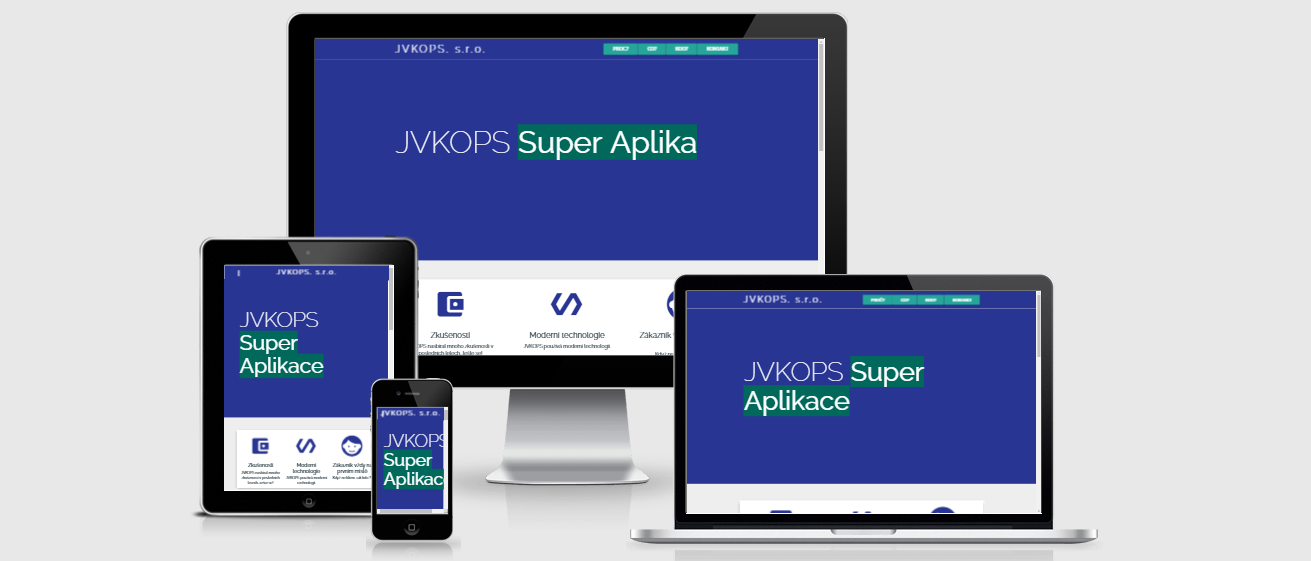
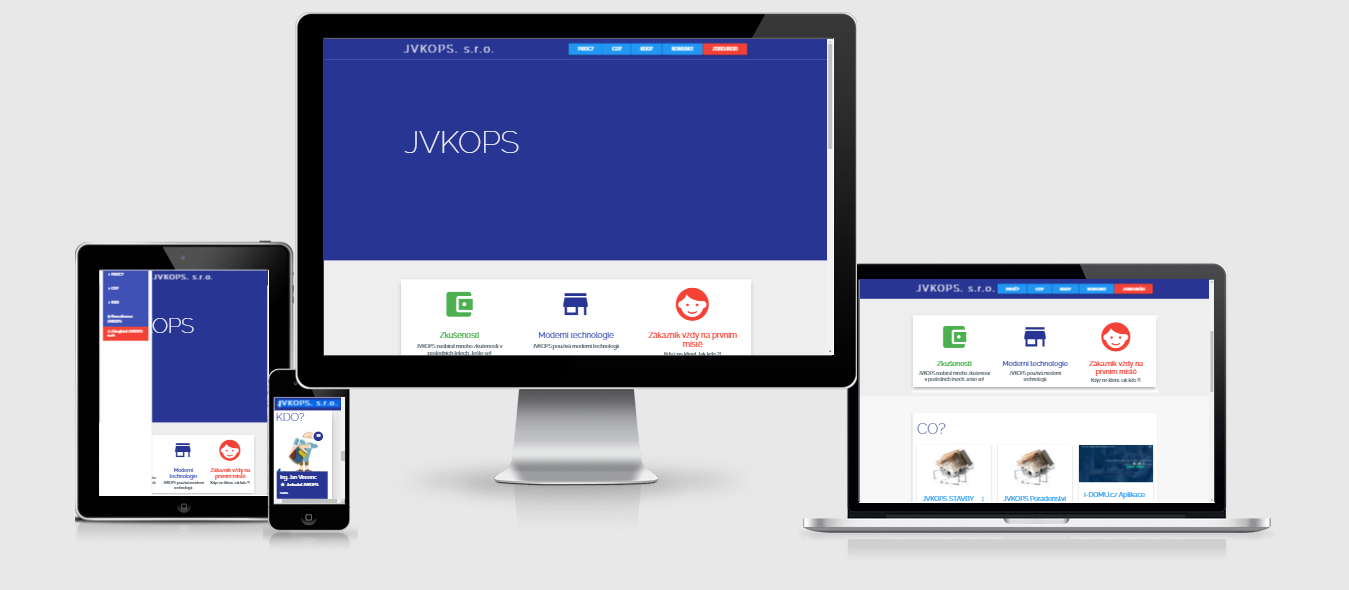
edited styles and screenshots

diff --git a/index.html b/index.html
@@ -1199,24 +1199,24 @@ body {
     <nav id="nav_f" class="default_color" role="navigation">
         <div class="container">
             <div class="nav-wrapper">
-            <a href="http://www.jvkops.cz" id="logo-container" class="brand-logo">#  JVKOPS, s.r.o.</a>
+            <a href="http://www.jvkops.cz" id="logo-container" class="brand-logo"> JVKOPS, s.r.o.</a>
                 <ul class="right hide-on-med-and-down">
-                    <li><a href="#intro" onclick="Materialize.toast('Z jakého důvodu', 5000)" class="btn">Proč?</a></li>
-					<li><a href="#work"onclick="Materialize.toast('Jakou práci', 5000)" class="btn">Co?</a></li>
-                    <li><a href="#team"onclick="Materialize.toast('Lidi, ne?', 5000)" class="btn">Kdo?</a></li>
-                    <li><a href="#contact"onclick="Materialize.toast('Napište nám', 5000)" class="btn">Kontakt</a></li>
-                 <li><a href="https://github.com/Adam-Michal-Prague/JVKOPS-cz"onclick="Materialize.toast('Zdrojový kód', 5000)" class="btn">Zdrojkód</a></li>
+                    <li><a href="#intro" onclick="Materialize.toast('Z jakého důvodu', 5000)" class="btn blue">Proč?</a></li>
+					<li><a href="#work"onclick="Materialize.toast('Jakou práci', 5000)" class="btn blue">Co?</a></li>
+                    <li><a href="#team"onclick="Materialize.toast('Lidi, ne?', 5000)" class="btn blue">Kdo?</a></li>
+                    <li><a href="#contact"onclick="Materialize.toast('Napište nám', 5000)" class="btn blue">Kontakt</a></li>
+                 <li><a href="https://github.com/Adam-Michal-Prague/JVKOPS-cz"onclick="Materialize.toast('Zdrojový kód', 5000)" class="btn red">Zdrojkód</a></li>
                
 			   <li></li>
 				</ul>
 				
             </div>
                 <ul id="nav-mobile" class="side-nav collection">
-                    <li><a href="#intro"  class="collection-item" onclick="Materialize.toast('Z jakého důvodu', 5000)">PROČ?</a></li>
-                    <li><a href="#work" class="collection-item"onclick="Materialize.toast('Naše práce', 5000)">CO?</a></li>
-                    <li><a href="#team"class="collection-item"onclick="Materialize.toast('Osoby,ne?', 5000)">KDO</a></li>
-                    <li><a href="#contact"class="collection-item"onclick="Materialize.toast('Už letím', 5000)">Kontaktovat JVKOPS!</a></li>
-                 <li><a href="https://github.com/Adam-Michal-Prague/JVKOPS-cz"class="collection-item"onclick="Materialize.toast('Už letím', 5000)">Zdrojkód JVKOPS web</a></li>
+                    <li><a href="#intro"  class="collection-item indigo white-text" onclick="Materialize.toast('Z jakého důvodu', 5000)"><i class="fa fa-fw fa-question"></i>PROČ?</a></li>
+                    <li><a href="#work" class="collection-item indigo white-text"onclick="Materialize.toast('Naše práce', 5000)"><i class="fa fa-fw fa-question"></i>CO?</a></li>
+                    <li><a href="#team"class="collection-item indigo white-text"onclick="Materialize.toast('Osoby,ne?', 5000)"><i class="fa fa-fw fa-question"></i>KDO</a></li>
+                    <li><a href="#contact"class="collection-item indigo white-text"onclick="Materialize.toast('Už letím', 5000)"><i class="fa fa-fw fa-info-circle"></i>Kontaktovat JVKOPS</a></li>
+                 <li><a href="https://github.com/Adam-Michal-Prague/JVKOPS-cz"class="collection-item red white-text wave-effect wave-red"onclick="Materialize.toast('Už letím', 5000)"><i class="fa fa-fw fa-github"></i>Zdrojkód JVKOPS web</a></li><i class="fa fa-fw fa-github"></i>
                 </ul>
             <a href="#" data-activates="nav-mobile" class="button-collapse"><i class="mdi-navigation-more-vert"></i></a>
             </div>
@@ -1248,23 +1248,23 @@ body {
 
             <div  class="col s12 m4 l4">
                 <div class="center promo promo-example">
-                    <i class="mdi-action-account-balance-wallet"></i>
-                    <h5 class="promo-caption">Zkušenosti</h5>
+                    <i class="mdi-action-account-balance-wallet green-text"></i>
+                    <h5 class="promo-caption green-text">Zkušenosti</h5>
                     <p class="light center">JVKOPS nasbíral mnoho zkušeností v posledních letech...tešte se!</p>
                 </div>
             </div>
             <div class="col s12 m4 l4">
                 <div class="center promo promo-example">
                     <i class="mdi-action-store"></i>
-                    <h5 class="promo-caption">Moderní technologie</h5>
+                    <h5 class="promo-caption indigo-text">Moderní technologie</h5>
                     <p class="light center">JVKOPS používá moderní technologii.</p>
                 </div>
             </div>
 			
             <div class="col s12 m4 l4">
                 <div class="center promo promo-example">
-                    <i class="mdi-action-face-unlock"></i>
-                    <h5 class="promo-caption">Zákazník vždy na prvním místě</h5>
+                    <i class="mdi-action-face-unlock red-text"></i>
+                    <h5 class="promo-caption red-text">Zákazník vždy na prvním místě</h5>
                     <p class="light center">Když ne klient, tak kdo ?!.</p>
                 </div>
             </div>
